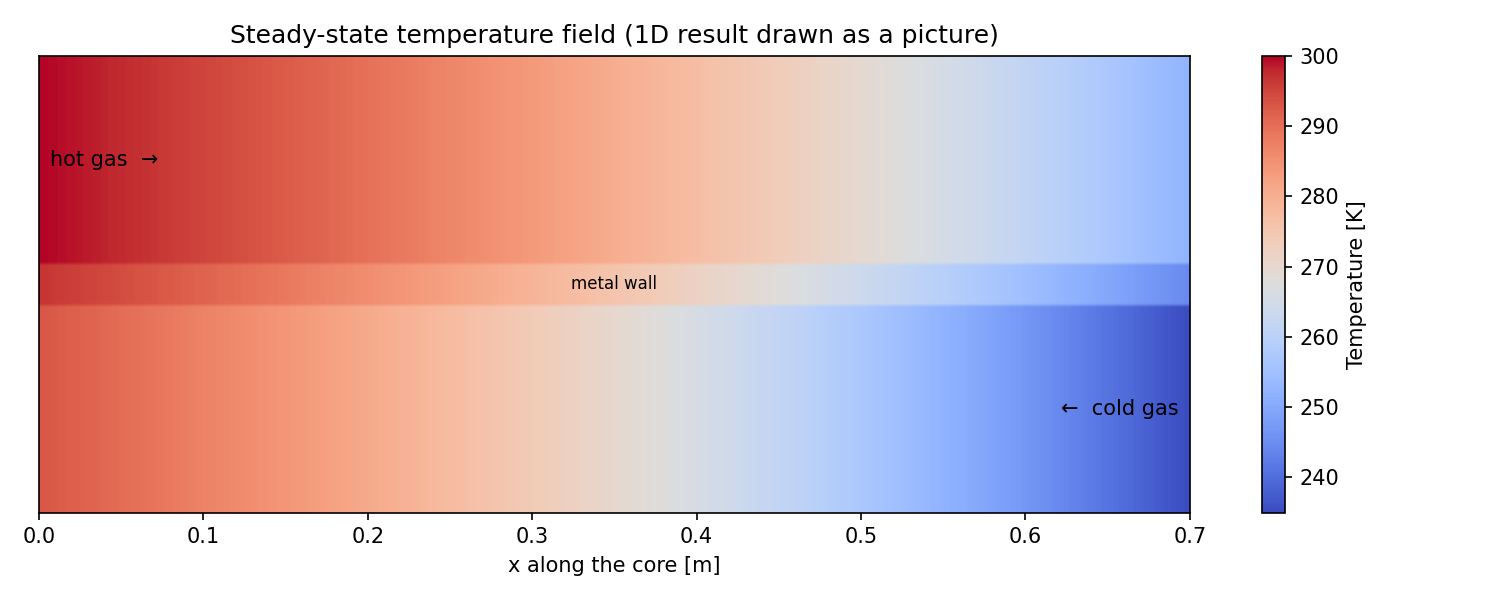
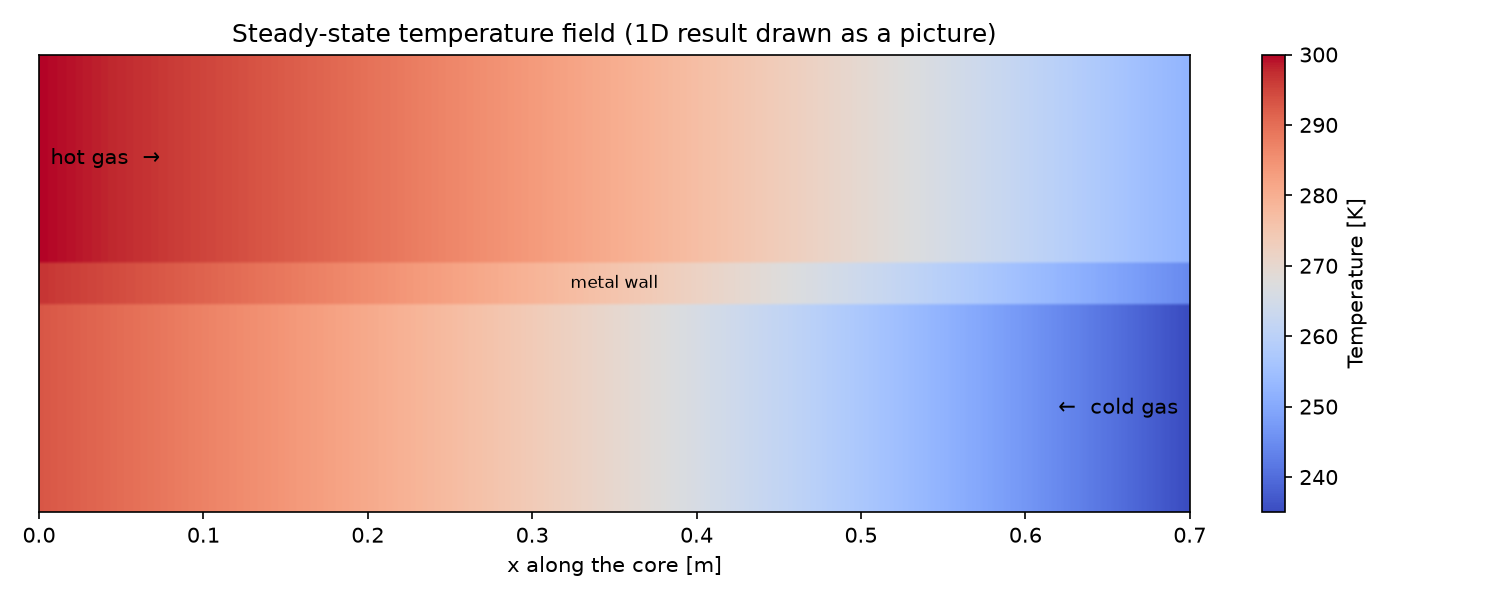
Fix run_steady cold profile and script run paths; regenerate figures
- run_steady: T_c was reversed before plotting and the cold in/out labels
  were swapped, which mirrored the cold profile (cold inlet drawn at x = 0)
  and made T_h - T_c wrong. T_c is indexed by x like T_h, so plot it as is.
  Wall end labels overlapped "hot in"/"cold out" at x = 0 (7 K apart), so
  the wall end temperatures are printed instead.
- Both scripts and scripts/__init__ said `python -m model.<script>`; the
  package is scripts/.
- Regenerate figures/ from the fixed code (base case: hot out 252.2 K,
  cold out 293.0 K, duty 13.3 kW per passage, closure 6e-10).
- README: list scripts/ and how to run them; on a fresh clone the steady
  tests now pass and only the transient tests are skipped.

diff --git a/scripts/run_steady.py b/scripts/run_steady.py
@@ -1,14 +1,14 @@
 """Quick look at the steady-state model: solve the base case and plot the profiles.
 
 Run from the repo root with either of:
-    python -m model.run_steady
-    python model/run_steady.py
+    python -m scripts.run_steady
+    python scripts/run_steady.py
 """
 
 import sys
 from pathlib import Path
 
-# Running `python model/run_steady.py` puts model/ (not the repo root) on sys.path,
+# Running `python scripts/run_steady.py` puts scripts/ (not the repo root) on sys.path,
 # so `from src import ...` would fail. Add the repo root so both run styles work.
 ROOT = Path(__file__).resolve().parent.parent
 if str(ROOT) not in sys.path:
@@ -25,8 +25,8 @@ def main():
     """Solve the base-case steady state, print the key numbers and save the profile plot.
 
     Inputs: none (uses config.BASE_CASE).
-    Outputs: prints duty [kW], outlet temperatures [K], energy closure and the
-    max stream-to-stream difference [K]; saves figures/steady_profiles.png
+    Outputs: prints duty [kW], outlet and wall end temperatures [K], energy
+    closure and the max stream-to-stream difference [K]; saves figures/steady_profiles.png
     (top: T_h, T_c, T_w with inlet/outlet markers; bottom: T_h - T_c vs x).
     """
     params = dict(config.BASE_CASE)
@@ -36,12 +36,15 @@ def main():
     duty = steady.energy_balance(s, params, props)
     print(f"Duty per passage: {duty['Q_h'] / 1e3:.2f} kW")
     print(f"Hot outlet:  {s['T_h'][-1]:.2f} K   Cold outlet: {s['T_c'][0]:.2f} K")
+    print(f"Wall at x = 0: {s['T_w'][0]:.2f} K   Wall at x = L: {s['T_w'][-1]:.2f} K")
     print(f"Energy closure: hot-vs-cold {duty['closure_hc']:.1e}, integral {duty['closure_int']:.1e}")
     print(f"Max stream-to-stream difference: {(s['T_h'] - s['T_c']).max():.1f} K")
 
     # Top panel: the three temperature profiles. Hot enters at x = 0 and flows +x;
     # cold enters at x = L and flows -x, so each stream's inlet is at opposite ends.
-    x, T_h, T_c, T_w = s["x"], s["T_h"], s["T_c"][::-1], s["T_w"]
+    # All three arrays are indexed by x (T_c[0] is the cold OUTLET at x = 0), so
+    # they are plotted as they are; reversing T_c would mirror the cold profile.
+    x, T_h, T_c, T_w = s["x"], s["T_h"], s["T_c"], s["T_w"]
     fig, (ax_T, ax_gap) = plt.subplots(2, 1, sharex=True, figsize=(7, 7),
                                        gridspec_kw={"height_ratios": [2, 1]})
     ax_T.plot(x, T_h, color="C1", label="hot")
@@ -57,11 +60,11 @@ def main():
     left = dict(textcoords="offset points", xytext=(-9, 0), ha="right", va="center", fontsize=9)
     right = dict(textcoords="offset points", xytext=(9, 0), ha="left", va="center", fontsize=9)
     ax_T.annotate(f"hot in\n{T_h[0]:.1f} K", (x[0], T_h[0]), color="C1", **left)
-    ax_T.annotate(f"cold in\n{T_c[0]:.1f} K", (x[0], T_c[0]), color="C0", **left)
+    ax_T.annotate(f"cold out\n{T_c[0]:.1f} K", (x[0], T_c[0]), color="C0", **left)
     ax_T.annotate(f"hot out\n{T_h[-1]:.1f} K", (x[-1], T_h[-1]), color="C1", **right)
-    ax_T.annotate(f"cold out\n{T_c[-1]:.1f} K", (x[-1], T_c[-1]), color="C0", **right)
-    ax_T.annotate(f"wall left\n{T_w[0]:.1f} K", (x[0], T_w[0]), color="C2", **left)
-    ax_T.annotate(f"wall right\n{T_w[-1]:.1f} K", (x[-1], T_w[-1]), color="C2", **right)
+    ax_T.annotate(f"cold in\n{T_c[-1]:.1f} K", (x[-1], T_c[-1]), color="C0", **right)
+    # No wall end labels: at x = 0 the wall sits only a few K from both streams, so
+    # its label would overlap "hot in" and "cold out". The values are printed above.
     ax_T.set_ylabel("T [K]")
     ax_T.legend()
 

diff --git a/scripts/plot_heatmap.py b/scripts/plot_heatmap.py
@@ -5,14 +5,14 @@ drawn as a picture: hot passage on top, metal wall in the middle, cold passage
 on the bottom, each colored by its temperature at that x.
 
 Run from the repo root with either of:
-    python -m model.plot_heatmap
-    python model/plot_heatmap.py
+    python -m scripts.plot_heatmap
+    python scripts/plot_heatmap.py
 """
 
 import sys
 from pathlib import Path
 
-# Running `python model/plot_heatmap.py` puts model/ (not the repo root) on sys.path,
+# Running `python scripts/plot_heatmap.py` puts scripts/ (not the repo root) on sys.path,
 # so `from src import ...` would fail. Add the repo root so both run styles work.
 ROOT = Path(__file__).resolve().parent.parent
 if str(ROOT) not in sys.path:

diff --git a/scripts/__init__.py b/scripts/__init__.py
@@ -1,4 +1,4 @@
 """Scripts that run the model in src/ and make figures (saved to figures/).
 
-Run from the repo root, e.g. ``python -m model.run_steady``.
+Run from the repo root, e.g. ``python -m scripts.run_steady``.
 """

diff --git a/README.md b/README.md
@@ -29,8 +29,9 @@ bahx-thermal-model/
 │   ├── transient.py      method-of-lines transient, upset scenarios, discrete steady state, quasi-steady fallback
 │   └── metrics.py        thermal-fatigue and ALPEMA metrics, grid-convergence order, smooth max, thermal stress
 ├── tests/                pytest verification checks (see CLAUDE.md "Verification")
+├── scripts/              runnable scripts that solve the model and save figures (run_steady.py, plot_heatmap.py)
 ├── notebooks/            analysis notebooks; import from src/ and only make plots
-├── figures/              saved figures from notebooks
+├── figures/              saved figures from notebooks and scripts
 ├── data/                 small input data (e.g. NIST WebBook spot-check values)
 ├── pytest.ini            puts the repo root on sys.path for tests
 ├── requirements.txt      dependencies with minimum versions
@@ -66,7 +67,16 @@ pip install -r requirements.txt
 pytest -q
 ```
 
-On a fresh clone, `test_setup.py` should pass and every other test should be reported as skipped until its module is implemented.
+On a fresh clone, the setup and steady-state tests should pass; the transient tests are reported as skipped until `transient.py` is implemented.
+
+### Scripts
+
+Run from the repo root (figures are saved to `figures/`):
+
+```bash
+python -m scripts.run_steady     # base-case steady solution: prints duty and closure, saves steady_profiles.png
+python -m scripts.plot_heatmap   # same solution drawn as a temperature map, saves steady_heatmap.png
+```
 
 ### Notebooks
 
